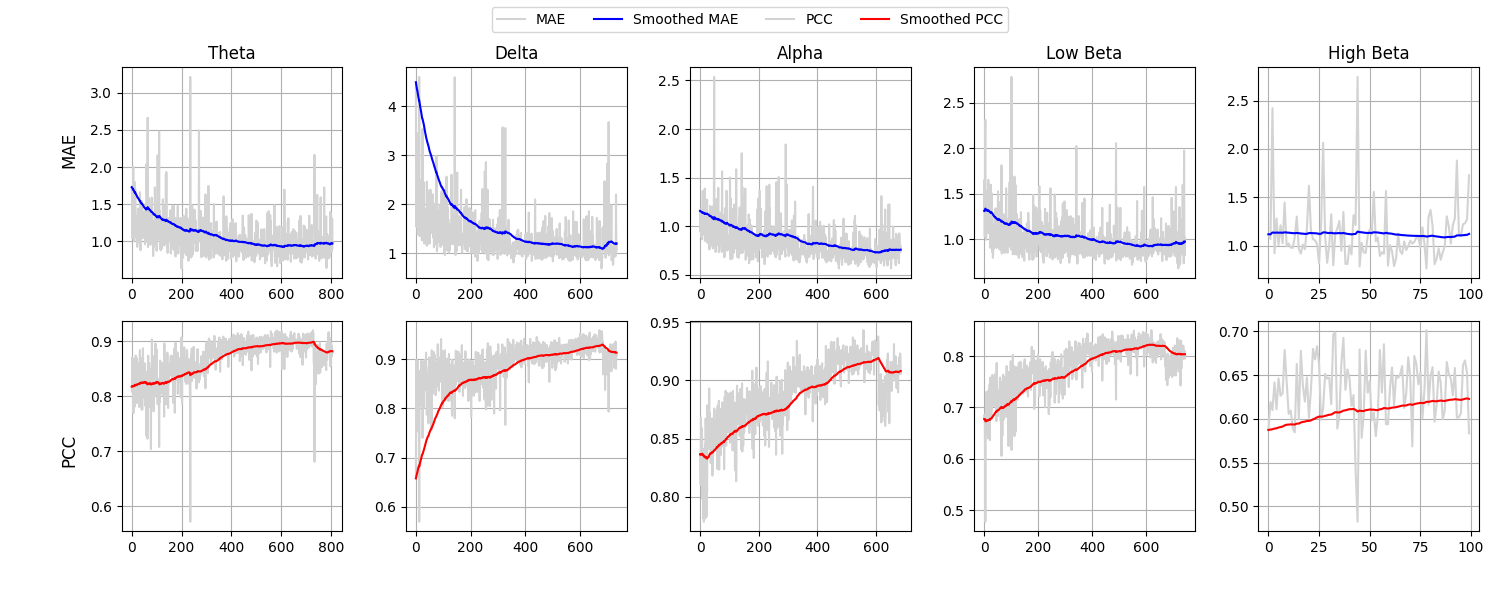
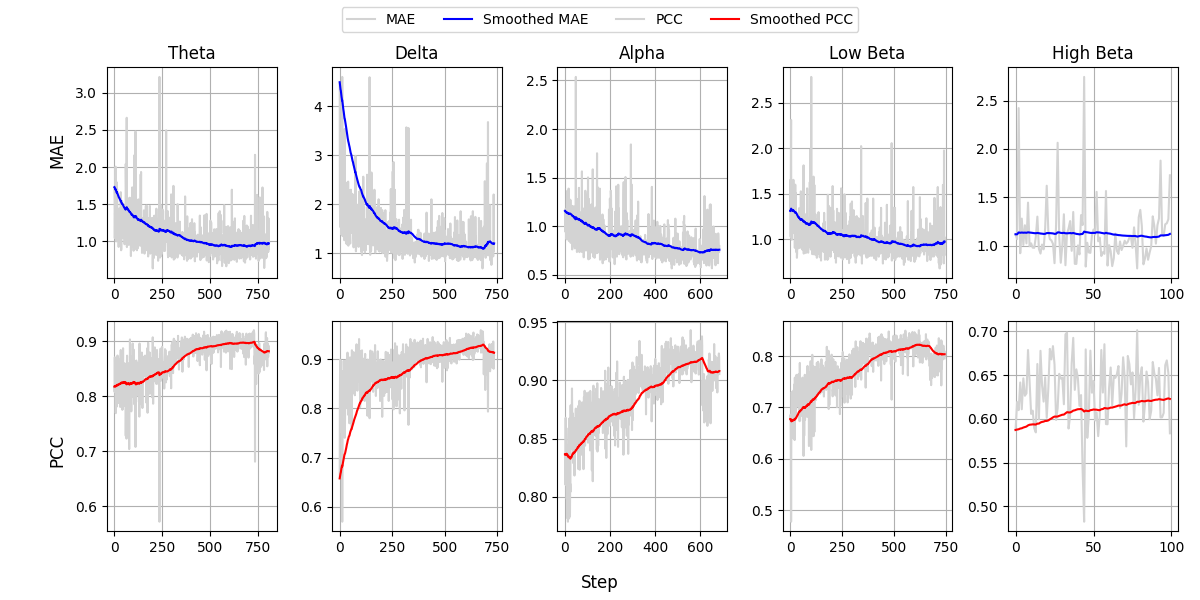
debugging deploy vaeeg ed eval

diff --git a/eval.py b/eval.py
@@ -28,51 +28,41 @@ def parse_list_of_lists(flat_list, separator):
 
 parser = argparse.ArgumentParser(description='Evaluate Model')
 parser.add_argument('--data_dir', type=str, required=True, help='data_dir')
-parser.add_argument('--models', type=str, nargs='+', required=True, help='models')
+parser.add_argument('--model', type=str, required=True, help='model')
 parser.add_argument('--model_save_name', type=str, required=True, help='model_save_name')
 parser.add_argument('--model_save_files', nargs='+', type=str, required=True, help='models saves files')
-parser.add_argument('--params', nargs='+',type=int, required=False, help='params for models', default=[])
+parser.add_argument('--params', nargs='+',type=str, required=False, help='params for models', default=[])
 parser.add_argument('--out_dir', type=str, required=True, help='out_dir')
 parser.add_argument('--cuts', nargs='+',type=int, required=False, help='cuts', default=[0,-1])
 
 opts = parser.parse_args()
 
 data_dir = opts.data_dir
-models = opts.models
+model = opts.model
 model_save_name = opts.model_save_name
 model_save_files = opts.model_save_files
-param_list = parse_list_of_lists(opts.params, ',')
+param_list = [[int(x) for x in group] for group in parse_list_of_lists(opts.params, 'f')]
 out_dir = opts.out_dir
 cuts = opts.cuts
 
 if not os.path.exists(out_dir):
     os.makedirs(out_dir)
 
-pcc_con_maes = []
-pvl_maes = []
-pc_maes = []
-pearson_maes = []
-nrmse_maes = []
-
-for j, (model, files,params) in enumerate(zip(models, model_save_files, param_list)):
-    print(f'EVALUATION DEL MODELLO: {model_save_name}')
-    pcc_con_mae, pvl_mae, pc_mae, pearson_mae, nrmse_mae, or_ampl, rec_ampl = ef.evaluate(data_dir=data_dir, model=model, model_files=files,params=params, cuts=cuts)
-    t, p = ttest_rel(or_ampl,rec_ampl)
-    models[j] = model + '_' + str(j)
-    pcc_con_maes.append(pcc_con_mae)
-    pvl_maes.append(pvl_mae)
-    pc_maes.append(pc_mae)
-    pearson_maes.append(pearson_mae)
-    nrmse_maes.append(nrmse_mae)
-
-print('pcc_con_mae: ',pcc_con_maes)
-print('pvl_mae', pvl_maes)
-print('pc_maes: ',pc_maes)
-print('pearson_maes: ', pearson_maes)
-print('nrmse_mae: ', nrmse_maes)
 
 
-values = [pearson_maes, nrmse_maes, pc_maes, pcc_con_maes, pvl_maes]
+
+print(f'EVALUATION DEL MODELLO: {model_save_name}')
+pcc_con_mae, pvl_mae, pc_mae, pearson_mae, nrmse_mae, or_ampl, rec_ampl = ef.evaluate(data_dir=data_dir, model=model, model_files=model_save_files,params=param_list, cuts=cuts)
+t, p = ttest_rel(or_ampl,rec_ampl)
+
+print('pcc_con_mae: ',pcc_con_mae)
+print('pvl_mae', pvl_mae)
+print('pc_maes: ',pc_mae)
+print('pearson_maes: ', pearson_mae)
+print('nrmse_mae: ', nrmse_mae)
+
+
+values = [pearson_mae, nrmse_mae, pc_mae, pcc_con_mae, pvl_mae]
 titles = ['Pearson CC', 'NRMSE', 'Phase Mean Absolute Error', 'Correlation Mean Absolute Error', 'PVL Mean Absolute Error']
 y_lab = ['PCC', 'NRMSE', 'Phase MAE', 'Correlation MAE', 'PVL MAE']
 

diff --git a/deploy.py b/deploy.py
@@ -78,17 +78,17 @@ class DeployVAEEG():
         INPUT: Un segnale EEG monocanale. in_dim = [clip_num, 5, clip_len]
         OUTPUT: torch tensor segnale EEG ricostruito [band_num, temp_len] e le variabili latenti estratte [clip_num*50]        
         """
-        assert isinstance(inputs,torch.tensor), 'il segnale deve essere un aìtensore torch'
+        assert isinstance(inputs,torch.Tensor), 'il segnale deve essere un tensore torch'
         #per ogni banda passo le clip al modello ed estraggo le ricostruzioni e le variabili latenti
         inputs = inputs.to('cpu')
         rec_signal = []
         latent_signal = []
         #ogni banda ha forma [clip_num, 1, clip_len]
         for i in range(inputs.shape[1]):
-            rec, z = self.models[i](inputs[:,i:i+1,:])
+            _,_,rec, z = self.models[i](inputs[:,i:i+1,:])
             rec_signal.append(rec)
             latent_signal.append(z)
-        return rec_signal.transpose(0,1).flatten(1), torch.cat(latent_signal, dim=1)
+        return torch.stack(rec_signal,dim=0).transpose(0,1).sum(1), torch.cat(latent_signal,dim=1)
 
 class DeployBaseline():
     def __init__(self, path):
@@ -160,13 +160,13 @@ def get_orig_rec_latent(raw, model):
             c_r, c_l = model.run(ch)
             ch_rec.append(c_r.detach().cpu().numpy())
             ch_latent.append(c_l.detach().cpu().numpy())
-            #ogni cr,cl ha forma [bands_num, temp_len]
-        rec = np.stack(ch_rec, axis=0)
+            #c,l ha form [clip_num, latent_len]
+        rec = np.array(ch_rec).reshape(len(ch_rec), 1,-1)
         latent= np.stack(ch_latent, axis=0)
         orig=orig.transpose(1,2).flatten(2)
         orig=orig.detach().cpu().numpy()
         #ottengo una array numpy di forma [ch_num, band_num, temp_len]
-        return np.array(orig), np.array(rec), np.array(latent) 
+        return np.expand_dims(orig.sum(axis=1),1), rec, latent 
 
     if isinstance(model, DeployBaseline):
         orig = model.preprocess(signal=raw)
@@ -183,12 +183,12 @@ def get_orig_rec_latent(raw, model):
             ch_rec.append(c_r)
             ch_latent.append(c_l)
         rec= np.stack(ch_rec, axis=0)
-        latent = (np.stack(ch_latent, axis=0))
-        return np.expand_dims(orig.reshape(orig.shape[0],-1),axis=1), np.expand_dims(np.array(rec), axis=1), np.array(latent)
+        latent = np.stack(ch_latent, axis=0)
+        return np.expand_dims(orig.reshape(orig.shape[0],-1),axis=1), np.expand_dims(np.array(rec), axis=1), latent
     
 def load_models(model, save_files, params=None):
     if model == 'VAEEG':
-        model = DeployVAEEG(*save_files, *params)
+        model = DeployVAEEG(save_files, params)
     elif model in ['PCA','KernelPCA','FastICA']:
         model=DeployBaseline(save_files)
     else:

diff --git a/find_ckpt.py b/find_ckpt.py
@@ -122,7 +122,7 @@ pearson_values = np.load('C:/Users/Pietro/Desktop/TESI/TESI-TRIENNALE/pearsons.n
 mae_values = np.load('C:/Users/Pietro/Desktop/TESI/TESI-TRIENNALE/mae.npy', allow_pickle=True)
 bands = ['Theta', 'Delta', 'Alpha', 'Low Beta', 'High Beta']
 
-fig, axes = plt.subplots(2,5, figsize=(15,6))
+fig, axes = plt.subplots(2,5, figsize=(12,6))
 steps = [np.arange(len(p)) for p in pearson_values]
 
 handles, labels = [], []
@@ -140,7 +140,8 @@ for i, (mae, pear, band, step) in enumerate(zip(mae_values, pearson_values, band
 
 fig.text(0.04, 0.75, 'MAE', va='center', rotation='vertical', fontsize=12)
 fig.text(0.04, 0.25, 'PCC', va='center', rotation='vertical', fontsize=12)
+fig.text(0.5, 0.02, 'Step', ha='center', fontsize=12)
 fig.legend(handles, labels, loc='upper center', ncol=4, fontsize=10)
-plt.tight_layout(rect=[0.05, 0.05, 1, 0.95])  
+plt.tight_layout(rect=[0.05, 0.05, 1, 0.95])
 plt.savefig('./results/VAEEG_Train_res.png')
 plt.show()

diff --git a/evaluation_functions.py b/evaluation_functions.py
@@ -207,7 +207,11 @@ def evaluate(data_dir, model, model_files, params, cuts, f_extensions=['.edf']):
         orig, rec, _ = get_orig_rec_latent(raw, model)
         origis.append(orig)
         recs.append(rec)
-
+        if j==2:
+            break
+    
+    print('origis: ', type(origis[0]), origis[0].shape)
+    print('recs: ', type(recs[0]), recs[0].shape)
 
     print('CHECKPOINT: Fine calcolo originali e ricostruzioni')
     
